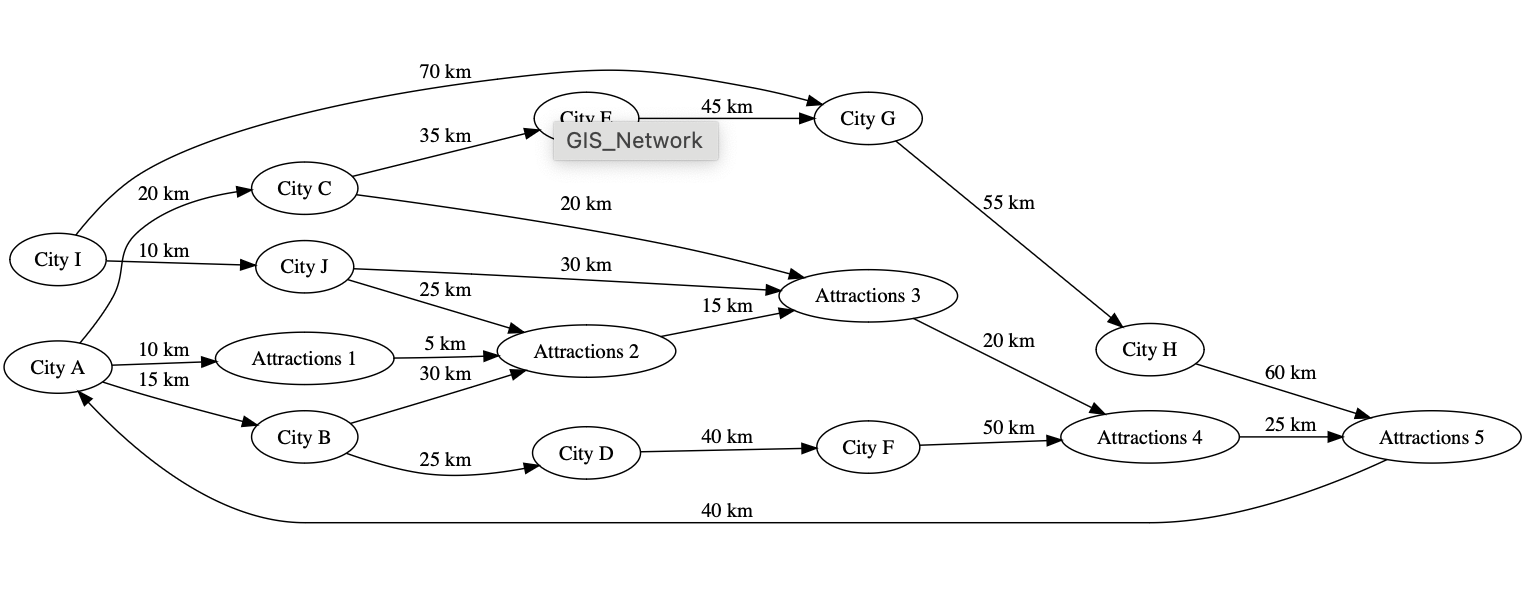
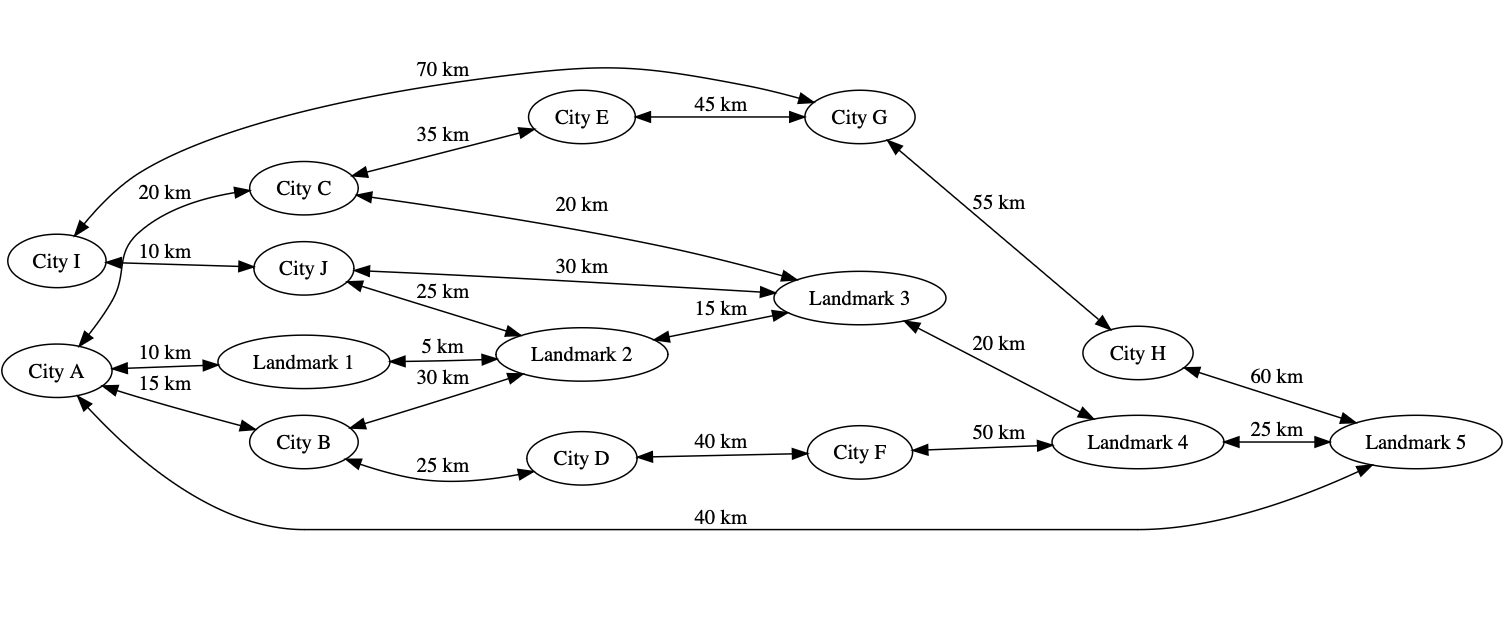
updates

diff --git a/examples/city_traffic/README.md b/examples/city_traffic/README.md
@@ -8,55 +8,150 @@ In this example, we are developing a Geographic Information System designed for 
 
 ## Why we prefer data spatial programming over OOP
 
-In an object-oriented programming approach, each feature can be represented with a class, and operations can be performed using custom methods. For example:
+In an object-oriented programming approach, each feature can be represented with a class, and operations can be performed using custom methods. For example lets look at how we can implement, the above example using OOP;
 
 ```python
-class Attraction:
-    def __init__(self, id, name, location, category):
+from math import radians, sin, cos, sqrt, atan2
+
+class City:
+    def __init__(self, id, name, location):
         self.id = id
         self.name = name
         self.location = location  # (latitude, longitude)
-        self.category = category
+        self.connections = []
 
-class Restaurant:
-    def __init__(self, id, name, location, cuisine_type):
+    def add_connection(self, destination, distance):
+        self.connections.append(Road(self, destination, distance))
+
+class Landmark:
+    def __init__(self, id, name, location):
         self.id = id
         self.name = name
         self.location = location  # (latitude, longitude)
-        self.cuisine_type = cuisine_type
+        self.connections = []
 
-# Example usage
-attractions = [Attraction(1, "Museum", (40.7128, -74.0060), "Museum"), ...]
-restaurants = [Restaurant(1, "Italian Bistro", (40.7138, -74.0050), "Italian"), ...]
+    def add_connection(self, destination, distance):
+        self.connections.append(Road(self, destination, distance))
 
-# Finding attractions within a certain distance from a location
-def find_attractions_nearby(location, distance):
-    nearby_attractions = []
-    for attraction in attractions:
-        if calculate_distance(location, attraction.location) <= distance:
-            nearby_attractions.append(attraction)
-    return nearby_attractions
+class Road:
+    def __init__(self, start, end, distance):
+        self.start = start
+        self.end = end
+        self.distance = distance
 
+def calculate_distance(loc1, loc2):
+    # Haversine formula to calculate distance between two points on the Earth
+    R = 6371.0  # Radius of the Earth in kilometers
+
+    lat1, lon1 = loc1
+    lat2, lon2 = loc2
+
+    dlat = radians(lat2 - lat1)
+    dlon = radians(lon2 - lon1)
+
+    a = sin(dlat / 2)**2 + cos(radians(lat1)) * cos(radians(lat2)) * sin(dlon / 2)**2
+    c = 2 * atan2(sqrt(a), sqrt(1 - a))
+
+    return R * c
+
+def find_connections(entity):
+    return [(road.end.name, road.distance) for road in entity.connections]
+
+# Example of setting up the GIS network
+cities = {
+    'A': City(1, "City A", (10.0, 20.0)),
+    'B': City(2, "City B", (10.1, 20.1)),
+    'C': City(3, "City C", (10.2, 20.2)),
+    'D': City(4, "City D", (10.3, 20.3)),
+    'E': City(5, "City E", (10.4, 20.4)),
+    'F': City(6, "City F", (10.5, 20.5)),
+    'G': City(7, "City G", (10.6, 20.6)),
+    'H': City(8, "City H", (10.7, 20.7)),
+    'I': City(9, "City I", (10.8, 20.8)),
+    'J': City(10, "City J", (10.9, 20.9))
+}
+
+landmarks = {
+    '1': Landmark(1, "Landmark 1", (11.0, 21.0)),
+    '2': Landmark(2, "Landmark 2", (11.1, 21.1)),
+    '3': Landmark(3, "Landmark 3", (11.2, 21.2)),
+    '4': Landmark(4, "Landmark 4", (11.3, 21.3)),
+    '5': Landmark(5, "Landmark 5", (11.4, 21.4))
+}
+
+# Define connections as per the graph
+cities['A'].add_connection(cities['B'], 15)
+cities['A'].add_connection(cities['C'], 20)
+cities['A'].add_connection(landmarks['1'], 10)
+
+cities['B'].add_connection(cities['D'], 25)
+cities['B'].add_connection(landmarks['2'], 30)
+
+cities['C'].add_connection(cities['E'], 35)
+cities['C'].add_connection(landmarks['3'], 20)
+
+cities['D'].add_connection(cities['F'], 40)
+cities['E'].add_connection(cities['G'], 45)
+
+cities['F'].add_connection(landmarks['4'], 50)
+cities['G'].add_connection(cities['H'], 55)
+cities['H'].add_connection(landmarks['5'], 60)
+
+cities['I'].add_connection(cities['J'], 10)
+cities['I'].add_connection(cities['G'], 70)
+
+cities['J'].add_connection(landmarks['2'], 25)
+cities['J'].add_connection(landmarks['3'], 30)
+
+landmarks['1'].add_connection(landmarks['2'], 5)
+landmarks['2'].add_connection(landmarks['3'], 15)
+landmarks['3'].add_connection(landmarks['4'], 20)
+landmarks['4'].add_connection(landmarks['5'], 25)
+landmarks['5'].add_connection(cities['A'], 40)
+
+# Example usage: Finding connections for City A
+connections = find_connections(cities['A'])
+print(f"Connections for {cities['A'].name}: {connections}")
+
+# Example usage: Calculating distance between two cities
+distance = calculate_distance(cities['A'].location, cities['B'].location)
+print(f"Distance between {cities['A'].name} and {cities['B'].name}: {distance:.2f} km")
 ```
 
-In this approach, you would manually implement distance calculations and other spatial operations. As the dataset grows, this can become complex and less efficient. However, implementing this system using concepts like nodes, edges, and walkers improves the management and querying of geographical data, especially for a travel-focused system. Picture a GIS system designed to assist travelers by providing information about tourist attractions, restaurants, and other points of interest. The system needs to efficiently handle queries such as finding nearby attractions, calculating travel times, and identifying points within certain areas.
+Consider the above scenario: initially, you might manually perform distance calculations and other spatial operations. However, as the dataset grows, this becomes increasingly complex and inefficient. By utilizing nodes, edges, and walkers, you can enhance the management and querying of geographical data, especially for a travel-oriented system. For instance, let's envision a GIS system intended to aid travelers by providing details about tourist attractions, restaurants, and other points of interest. This system should effectively handle tasks such as locating nearby attractions, estimating travel times, and identifying points within specific areas.
 
-In a spatial programming approach, the data is represented as a graph with nodes and edges, and spatial operations are performed using these structures. Here's how this approach compares to an OOP approach in handling the given tasks.
+The issue can be represented as a graph with nodes and edges using the spatial programming capabilities of Jaclang. By leveraging these structures, spatial operations can be carried out. The graphical representation is highly expressive and easy to grasp, making it well-suited for conceptualizing and solving computational problems. Some argue that their preferred programming language already includes graph libraries, rendering the concept unnecessary. However, I counter this argument by stating that fundamental design languages are built upon their inherent abstractions. Since graphs are not part of these abstractions, the language is not optimized to take advantage of the rich semantics that graphs offer.
 
-### Nodes, Edges, Walkers and Abilities and Ect in Jaclang
+### Graph representation of the problem
 
- + Nodes: Represent geographic features like cities, tourist attractions, restaurants, and landmarks.
- + Edges: Represent spatial relationships or connections between these nodes, such as roads, paths, or distance metrics.
- + Walkers: are agents that traverse the graph to perform specific tasks. In spatial programming in jaclang, walkers can be used to execute spatial queries and operations.
- + Abilities: Nodes, edges, and walkers can have abilities. Abilities are most closely analogous to methods in a traditional object oriented program, however they do not have the same semantics of a traditional function. An ability can only interact within the scope of context and local variables of the node/edge/walker for which it is affixed and do not have a return semantic.
- + Visit:
- + Revisit:
- + Disengage:
- + Ignore:
+To represent the above scenario, we can use a graph to show connections between cities and their attractions. The graph's cities and attractions are nodes, and the edges connecting them show the distances between them. These lines are bidirectional so that you can travel back and forth, see the following picture;
 
+> NOTE:
+> + Nodes: Geographic features like cities, tourist attractions, restaurants, and landmarks will be represented as nodes.
+> + Edges: Represent spatial relationships or connections between these nodes, such as roads, paths, or distance metrics.
 
-Let's look at the following example;
+Now let's make some general nodes about cities and landmarks;
 
-![Tourist GIS Graph](./img/example_graph.png)
+```jac
+node city{
+    has name;
+    has location;
+}
 
-In the above example nodes represent cities and landmarks, while the edges represent the distance between them.
+node attraction{
+    has name;
+    has location;
+    has description;
+}
+```
+
+lets create the distance edge;
+
+```jac
+edge road{
+    has distance;
+}
+```
+
+> NOTE:
+> + Walkers: Walkers are agents that traverse the graph to perform specific tasks. In spatial programming in jaclang, walkers can be used to execute spatial queries and operations. 
